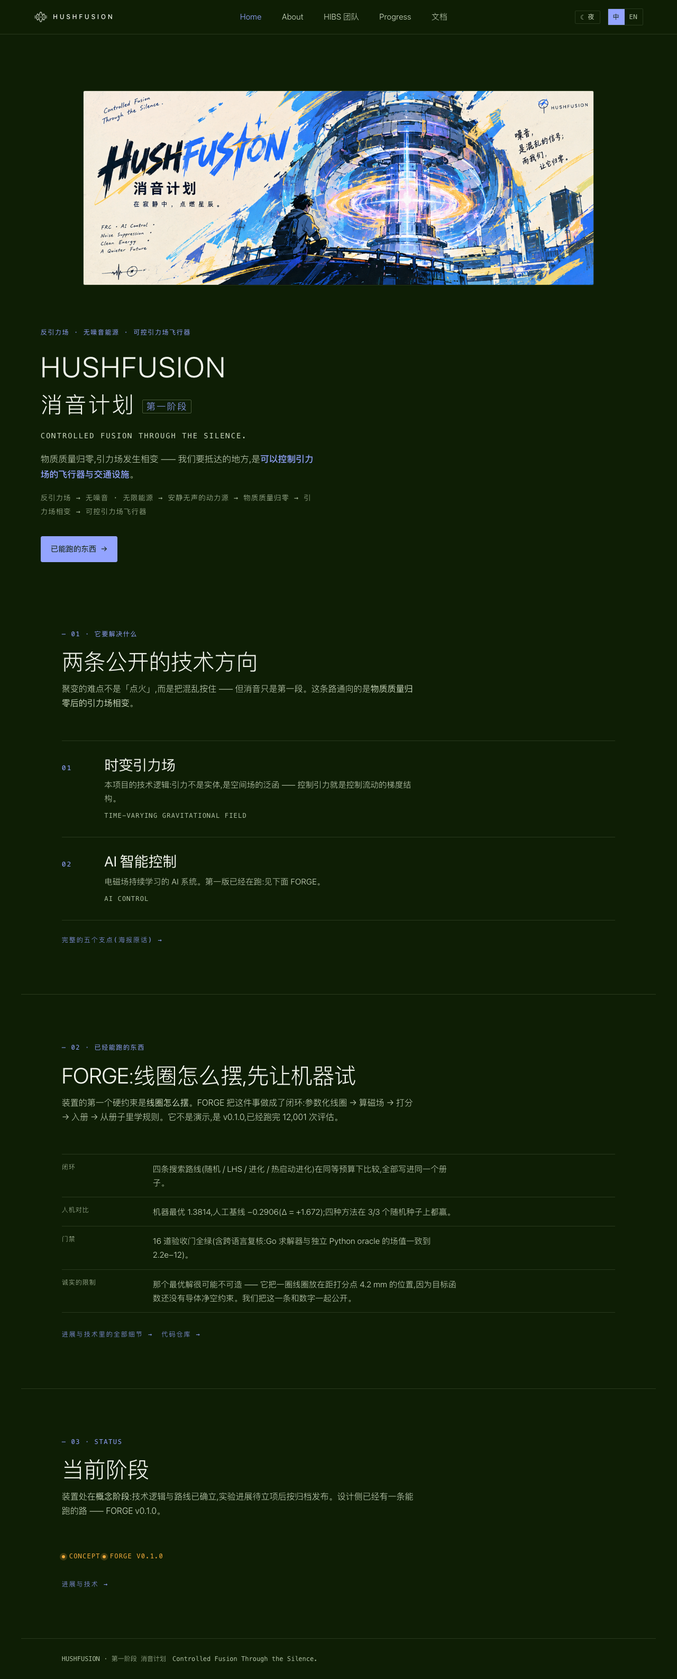
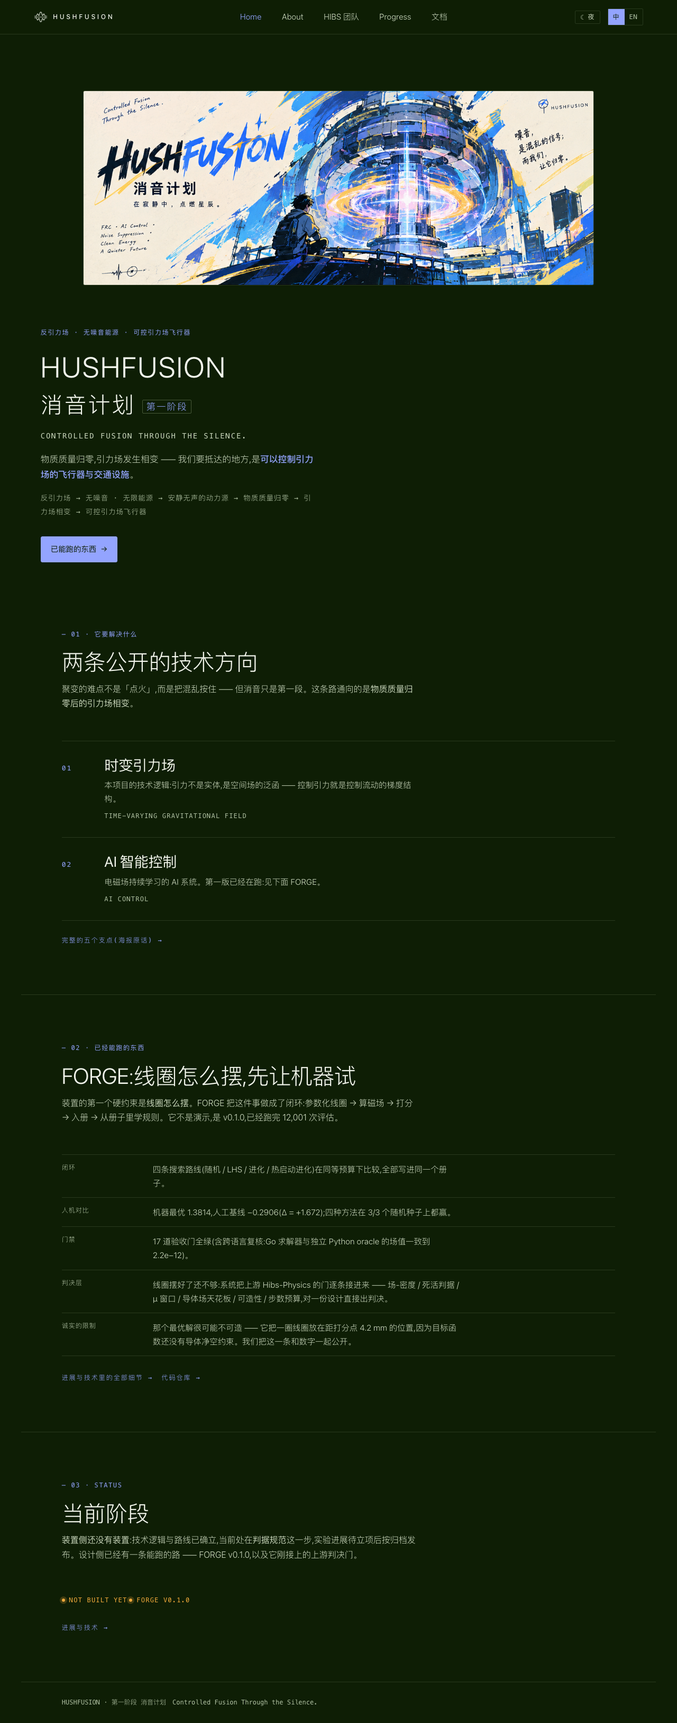
design(site): 进展页接入上游判决层 + 阶段口径改准(概念→判据规范)+ 修部署假红
判决层(需方:Forge 要根据 ProjectionPhysics 内部的设计来实现,实现完再改进展页的概念)
- 进展页 #forge 增「内部设计判决层」:上游闭式解(PF3/FC1/FC4/FC11b/TD19–TD21)实现成
  六道可回归的门;同一份参考设计:MATBG (N=2) 面外 0.12 T ⟹ 无解(χ_μ = 2.1e−4),
  面内 1.6 T ⟹ 窗口开(1.479)但线圈峰场 3.416 T 超材料天花板 ⟹ 不成立
- 门数 16 → 17(新增 G17 内部设计锚点门),首页 / 进展页 / 关于页三处同步
- 阶段口径:「概念」→ 事实陈述(装置侧还没有装置,当前处在判据规范这一步;设计侧已有可运行系统)
- 公开纪律:上游 wiki 58 页全 audience:self ⟹ 判决漏斗的排期/人月/编成/门表不进公开站,
  只发这一步的名字;站上已发布的同族(反引力约束 + μ 动力学)闭式解可以发

修假红(站点自己的工具)
- deploy.sh 的线上验收在 set -o pipefail + set -e 下,发布落地抖动会让整个部署退出 1
  (内容其实已核对)。改为重试到判据(最多 3 次),三次都不过才报真红

验收:verify-site.mjs 226/226(本地 + 部署后线上);wiki 7 道门全绿;
线上读回逐条(判决层 / 17 道门 / 165 步 / χ_μ 在,旧口径归零);未改 style.css/app.js ⇒ ?v= 仍 19

diff --git a/progress.html b/progress.html
@@ -54,12 +54,12 @@
 
     <div class="section-head reveal" style="margin-top:clamp(36px,5vw,64px);margin-bottom:14px">
       <h2 class="section-title" style="font-size:clamp(1.25rem,2.2vw,1.7rem)"
-          data-zh="当前阶段:概念 —— 但设计侧已经有一条路在跑" data-en="Current stage: concept — but one path on the design side already runs">当前阶段:概念 —— 但设计侧已经有一条路在跑</h2>
+          data-zh="当前阶段:装置侧还没有装置 —— 设计侧已经有一条路在跑" data-en="Current stage: no device yet — a path on the design side already runs">当前阶段:装置侧还没有装置 —— 设计侧已经有一条路在跑</h2>
       <p class="section-lede" data-html="1"
-         data-zh="&lt;strong&gt;装置&lt;/strong&gt;仍在概念阶段:技术逻辑与路线已确立(反引力场 / 无噪音能源),实验进展、指标数值与归档记录都还没有,待立项后按条目发布,&lt;strong&gt;不预先填充&lt;/strong&gt;。&lt;strong&gt;设计侧&lt;/strong&gt;不同 —— 已经有一台在跑的机器(FORGE),它的每一个数都在下面,而且都能被重新算出来。"
-         data-en="The &lt;strong&gt;device&lt;/strong&gt; is still at the concept stage: the technical logic and route are settled (anti-gravity field / energy without noise); experimental progress, metric values and archives do not exist yet and will be published entry by entry once the project starts — &lt;strong&gt;not pre-filled&lt;/strong&gt;. The &lt;strong&gt;design side&lt;/strong&gt; is different: there is already a machine that runs (FORGE), and every number of it is below — each one recomputable.">装置仍在概念阶段:技术逻辑与路线已确立(反引力场 / 无噪音能源),实验进展、指标数值与归档记录都还没有,待立项后按条目发布,<strong>不预先填充</strong>。设计侧不同 —— 已经有一台在跑的机器(FORGE),它的每一个数都在下面,而且都能被重新算出来。</p>
+         data-zh="&lt;strong&gt;装置&lt;/strong&gt;侧还没有装置:技术逻辑与路线已确立(反引力场 / 无噪音能源),当前处在&lt;strong&gt;判据规范&lt;/strong&gt;这一步(先把判据、诊断方案与零假设基准写死,再谈采购与建造),实验进展、指标数值与归档记录都还没有,待立项后按条目发布,&lt;strong&gt;不预先填充&lt;/strong&gt;。&lt;strong&gt;设计侧&lt;/strong&gt;不同 —— 已经有一台在跑的机器(FORGE),它的每一个数都在下面,而且都能被重新算出来。"
+         data-en="On the &lt;strong&gt;device&lt;/strong&gt; side there is no device yet: the technical logic and route are settled (anti-gravity field / energy without noise), and the project sits at the &lt;strong&gt;criteria-specification&lt;/strong&gt; step (fix the criteria, the diagnostic plan and the null-hypothesis baseline before talking procurement or construction); experimental progress, metric values and archives do not exist yet and will be published entry by entry once the project starts — &lt;strong&gt;not pre-filled&lt;/strong&gt;. The &lt;strong&gt;design side&lt;/strong&gt; is different: there is already a machine that runs (FORGE), and every number of it is below — each one recomputable.">装置侧还没有装置:技术逻辑与路线已确立(反引力场 / 无噪音能源),当前处在<strong>判据规范</strong>这一步(先把判据、诊断方案与零假设基准写死,再谈采购与建造),实验进展、指标数值与归档记录都还没有,待立项后按条目发布,<strong>不预先填充</strong>。设计侧不同 —— 已经有一台在跑的机器(FORGE),它的每一个数都在下面,而且都能被重新算出来。</p>
     </div>
-    <p><span class="status">Concept · device</span> <span class="status">Running · FORGE v0.1.0</span></p>
+    <p><span class="status">Not built yet · device</span> <span class="status">Running · FORGE v0.1.0</span></p>
   </section>
 
   <!-- ◆ 技术(原 technology.html 已并入本节) -->
@@ -118,15 +118,16 @@
       <div><dt>闭环</dt><dd data-zh="参数化线圈 → 精确磁场求解 → 目标函数打分 → 登记入册(带设计谱系)→ 从册子里挖规则。四条搜索路线(随机 / LHS / 进化 / 热启动进化)在同等预算下比较。" data-en="Parameterised coils → exact field solve → scoring → entry into a registry with design lineage → rules mined from the registry. Four search routes (random / LHS / evolution / warm-start evolution) compared at equal budget.">参数化线圈 → 精确磁场求解 → 目标函数打分 → 登记入册(带设计谱系)→ 从册子里挖规则。四条搜索路线(随机 / LHS / 进化 / 热启动进化)在同等预算下比较。</dd></div>
       <div><dt>人机对比</dt><dd data-zh="人工基线 −0.2906(它的中央室电流是解出来的,不是猜的);机器最优 1.3814(Δ = +1.672)。四种方法在 3/3 个随机种子上全部击败人工基线。" data-en="Human baseline −0.2906 (its central-cell current is solved for, not guessed); machine best 1.3814 (Δ = +1.672). All four methods beat the human baseline on 3/3 seeds.">人工基线 −0.2906(它的中央室电流是解出来的,不是猜的);机器最优 1.3814(Δ = +1.672)。四种方法在 3/3 个随机种子上全部击败人工基线。</dd></div>
       <div><dt>已归档的记录</dt><dd data-zh="一次基准跑 12,001 次评估,逐条入库(原始项、约束残差、设计谱系都留着),连同报告与图一起提交进仓库。" data-en="One benchmark run: 12,001 evaluations, every one recorded (raw terms, constraint residuals, design lineage) and committed to the repository together with the report and figures.">一次基准跑 12,001 次评估,逐条入库(原始项、约束残差、设计谱系都留着),连同报告与图一起提交进仓库。</dd></div>
-      <div><dt>门禁</dt><dd data-zh="16 道验收门,任何一道红就是红。其中两道是这台机器存在的理由:(1)跨语言复核 —— Go 求解器的场值与一个独立写成的 Python oracle 一致到 2.2e−12;(2)逐位复现 —— 按存档参数重跑一遍,12,001 条记录必须逐位相同。" data-en="16 acceptance gates; one red is red. Two of them are why this machine exists: (1) a cross-language check — the Go solver's field values agree with an independently written Python oracle to 2.2e−12; (2) bit-exact reproduction — re-run with the archived parameters and all 12,001 records must match bit for bit.">16 道验收门,任何一道红就是红。其中两道是这台机器存在的理由:(1)跨语言复核 —— Go 求解器的场值与一个独立写成的 Python oracle 一致到 2.2e−12;(2)逐位复现 —— 按存档参数重跑一遍,12,001 条记录必须逐位相同。</dd></div>
+      <div><dt>门禁</dt><dd data-zh="17 道验收门,任何一道红就是红。其中三道是这台机器存在的理由:(1)跨语言复核 —— Go 求解器的场值与一个独立写成的 Python oracle 一致到 2.2e−12;(2)逐位复现 —— 按存档参数重跑一遍,12,001 条记录必须逐位相同;(3)内部设计锚点 —— 把上游已公开的闭式解逐条复现,差一个数就红(见下一栏)。" data-en="17 acceptance gates; one red is red. Three of them are why this machine exists: (1) a cross-language check — the Go solver's field values agree with an independently written Python oracle to 2.2e−12; (2) bit-exact reproduction — re-run with the archived parameters and all 12,001 records must match bit for bit; (3) internal-design anchors — every upstream closed form is reproduced one by one, and one digit off turns the gate red (next row).">17 道验收门,任何一道红就是红。其中三道是这台机器存在的理由:(1)跨语言复核 —— Go 求解器的场值与一个独立写成的 Python oracle 一致到 2.2e−12;(2)逐位复现 —— 按存档参数重跑一遍,12,001 条记录必须逐位相同。</dd></div>
+      <div><dt>内部设计判决层</dt><dd data-html="1" data-zh="把上游 Hibs-Physics 的闭式解逐条实现成&lt;strong&gt;六道可回归的门&lt;/strong&gt;:约束场门 / 死活判据 / μ 窗口门 / 导体场天花板 / 可造性 / 步数预算。同一份参考设计(a = 0.2 m):用 MATBG (N=2) 面外场源(B_c2 = 0.12 T)⟹ &lt;strong&gt;无解&lt;/strong&gt;(μ 窗口关闭,χ_μ = 2.1e−4);用面内场源(1.6 T)⟹ 窗口开(χ_μ = 1.479),但线圈自身峰场 3.416 T 超过材料天花板 ⟹ 不成立。这一步把「场均不均匀」换成了装置真正要过的门。" data-en="The upstream Hibs-Physics closed forms, implemented one by one as &lt;strong&gt;six regression-checked gates&lt;/strong&gt;: confinement field / death threshold / mu-window / conductor ceiling / buildability / step budget. Same reference design (a = 0.2 m): with the MATBG (N=2) out-of-plane source (B_c2 = 0.12 T) it is &lt;strong&gt;unsolvable&lt;/strong&gt; (mu-window closed, chi_mu = 2.1e-4); with the in-plane source (1.6 T) the window opens (chi_mu = 1.479), but the coil own peak field of 3.416 T exceeds the material ceiling, so it does not hold. This swaps field non-uniformity for the gates the device actually has to pass.">把上游 Hibs-Physics 的闭式解逐条实现成<strong>六道可回归的门</strong>:约束场门 / 死活判据 / μ 窗口门 / 导体场天花板 / 可造性 / 步数预算。同一份参考设计(a = 0.2 m):用 MATBG (N=2) 面外场源(B_c2 = 0.12 T)⟹ <strong>无解</strong>(μ 窗口关闭,χ_μ = 2.1e−4);用面内场源(1.6 T)⟹ 窗口开(χ_μ = 1.479),但线圈自身峰场 3.416 T 超过材料天花板 ⟹ 不成立。这一步把「场均不均匀」换成了装置真正要过的门。</dd></div>
       <div><dt>怎么重算</dt><dd class="mono" style="letter-spacing:0">bash scripts/verify.sh phase0</dd></div>
     </dl>
 
     <div class="reveal" style="margin-top:clamp(28px,4vw,44px);max-width:46em">
       <p class="kicker kicker--muted" data-zh="说到哪,没说到哪" data-en="What is claimed, what is not">说到哪,没说到哪</p>
       <p style="color:var(--ink-2);font-size:.98rem" data-html="1"
-         data-zh="&lt;strong&gt;说得上话的&lt;/strong&gt;:这个闭环在真空场层面是可运行、可记录、可复核的。&lt;strong&gt;说不上话的&lt;/strong&gt;:(1)那个最优解很可能&lt;strong&gt;不可造&lt;/strong&gt; —— 它把一圈线圈放在距打分点 4.2 mm 处,因为目标函数还没有导体净空约束,这是一个合法的退化解;(2)热启动的增益在 1000 次预算下落进噪声,不许当结论;(3)人工基线在这个搜索盒里偏弱,随机搜索平均 8 次评估就追平它;(4)这一版是真空场设计,不含等离子体、线圈电流分配与有限厚度绕组 —— 它回答的是「这一组线圈的场结构好不好」,不是「这台机器会不会聚变」。"
-         data-en="&lt;strong&gt;What it can speak to&lt;/strong&gt;: the loop is runnable, recordable and checkable at the vacuum-field level. &lt;strong&gt;What it cannot&lt;/strong&gt;: (1) that winning design is most likely &lt;strong&gt;unbuildable&lt;/strong&gt; — it parks a coil 4.2 mm from the scoring point, because the objective has no conductor-clearance constraint yet, making it a legal degenerate solution; (2) the warm-start gain falls inside the noise at a 1000-evaluation budget and must not be quoted; (3) the human baseline is weak inside this particular box — random search catches it after about 8 evaluations; (4) this version is a vacuum-field design: no plasma, no conductor current sharing, no finite-thickness winding — it answers whether a coil set has good field structure, not whether a machine will fuse.">说得上话的:这个闭环在真空场层面是可运行、可记录、可复核的。说不上话的:(1)那个最优解很可能不可造 —— 它把一圈线圈放在距打分点 4.2 mm 处,因为目标函数还没有导体净空约束,这是一个合法的退化解;(2)热启动的增益在 1000 次预算下落进噪声,不许当结论;(3)人工基线在这个搜索盒里偏弱,随机搜索平均 8 次评估就追平它;(4)这一版是真空场设计,不含等离子体、线圈电流分配与有限厚度绕组 —— 它回答的是「这一组线圈的场结构好不好」,不是「这台机器会不会聚变」。</p>
+         data-zh="&lt;strong&gt;说得上话的&lt;/strong&gt;:这个闭环在真空场层面是可运行、可记录、可复核的。&lt;strong&gt;说不上话的&lt;/strong&gt;:(1)那个最优解很可能&lt;strong&gt;不可造&lt;/strong&gt; —— 它把一圈线圈放在距打分点 4.2 mm 处,因为目标函数还没有导体净空约束,这是一个合法的退化解;(2)热启动的增益在 1000 次预算下落进噪声,不许当结论;(3)人工基线在这个搜索盒里偏弱,随机搜索平均 8 次评估就追平它;(4)这一版是真空场设计,不含等离子体、线圈电流分配与有限厚度绕组 —— 它回答的是「这一组线圈的场结构好不好」,不是「这台机器会不会聚变」;(5)判决层也不回答「μ 从哪来」—— 它只算「给定 μ 能维持多少步、需要多大的场」,把 μ 能主动产生当成已知是本项目最容易犯的错。"
+         data-en="&lt;strong&gt;What it can speak to&lt;/strong&gt;: the loop is runnable, recordable and checkable at the vacuum-field level. &lt;strong&gt;What it cannot&lt;/strong&gt;: (1) that winning design is most likely &lt;strong&gt;unbuildable&lt;/strong&gt; — it parks a coil 4.2 mm from the scoring point, because the objective has no conductor-clearance constraint yet, making it a legal degenerate solution; (2) the warm-start gain falls inside the noise at a 1000-evaluation budget and must not be quoted; (3) the human baseline is weak inside this particular box — random search catches it after about 8 evaluations; (4) this version is a vacuum-field design: no plasma, no conductor current sharing, no finite-thickness winding — it answers whether a coil set has good field structure, not whether a machine will fuse; (5) the verdict layer does not answer where mu comes from either — it only asks how many steps a given mu can sustain and how much field that needs, and treating mu as already producible is the easiest mistake in this project.">说得上话的:这个闭环在真空场层面是可运行、可记录、可复核的。说不上话的:(1)那个最优解很可能不可造 —— 它把一圈线圈放在距打分点 4.2 mm 处,因为目标函数还没有导体净空约束,这是一个合法的退化解;(2)热启动的增益在 1000 次预算下落进噪声,不许当结论;(3)人工基线在这个搜索盒里偏弱,随机搜索平均 8 次评估就追平它;(4)这一版是真空场设计,不含等离子体、线圈电流分配与有限厚度绕组 —— 它回答的是「这一组线圈的场结构好不好」,不是「这台机器会不会聚变」;(5)判决层也不回答「μ 从哪来」—— 它只算「给定 μ 能维持多少步、需要多大的场」,把 μ 能主动产生当成已知是本项目最容易犯的错。</p>
     </div>
 
     <p style="margin-top:26px">
@@ -142,8 +143,8 @@
       <h2 class="section-title" style="font-size:clamp(1.25rem,2.2vw,1.7rem)"
           data-zh="关键指标" data-en="Key metrics">关键指标</h2>
       <p class="section-lede" data-html="1"
-         data-zh="&lt;strong&gt;装置侧&lt;/strong&gt;(等离子体、约束、装置工程)目前没有任何可发布的数值 —— 立项后按条目给。&lt;strong&gt;设计侧&lt;/strong&gt;的数值就是上一节 FORGE 的那四个数,来源与算法都在公开仓库里。"
-         data-en="&lt;strong&gt;Device side&lt;/strong&gt; (plasma, confinement, device engineering): no publishable values yet — they will be posted entry by entry once the project starts. &lt;strong&gt;Design side&lt;/strong&gt;: the numbers are the four in the FORGE section above, with sources and algorithms in the public repository.">装置侧(等离子体、约束、装置工程)目前没有任何可发布的数值 —— 立项后按条目给。设计侧的数值就是上一节 FORGE 的那四个数,来源与算法都在公开仓库里。</p>
+         data-zh="&lt;strong&gt;装置侧&lt;/strong&gt;(等离子体、约束、装置工程)目前没有任何可发布的数值 —— 立项后按条目给。&lt;strong&gt;设计侧&lt;/strong&gt;的数值有两组:一次基准跑的四个数(12,001 次评估 / 机器最优 1.3814 / 人工基线 −0.2906 / 17 道门),以及判决层对同一份参考设计的六道门结论(χ_μ = 2.1e−4 与 1.479、B_death = 0.9966 T、窗口在第 165 步关闭)。来源与算法都在公开仓库里。"
+         data-en="&lt;strong&gt;Device side&lt;/strong&gt; (plasma, confinement, device engineering): no publishable values yet — they will be posted entry by entry once the project starts. &lt;strong&gt;Design side&lt;/strong&gt;: the numbers come in two groups: the four from the benchmark run (12,001 evaluations / machine best 1.3814 / human baseline −0.2906 / 17 gates), and the six design gates the verdict layer returns for the same reference design (chi_mu = 2.1e-4 and 1.479, B_death = 0.9966 T, window closing at step 165). Sources and algorithms are in the public repository.">装置侧(等离子体、约束、装置工程)目前没有任何可发布的数值 —— 立项后按条目给。设计侧的数值有两组:一次基准跑的四个数(12,001 次评估 / 机器最优 1.3814 / 人工基线 −0.2906 / 17 道门),以及判决层对同一份参考设计的六道门结论(χ_μ = 2.1e−4 与 1.479、B_death = 0.9966 T、窗口在第 165 步关闭)。来源与算法都在公开仓库里。</p>
     </div>
   </section>
 

diff --git a/index.html b/index.html
@@ -100,7 +100,8 @@
     <dl class="spec-list reveal">
       <div><dt>闭环</dt><dd data-zh="四条搜索路线(随机 / LHS / 进化 / 热启动进化)在同等预算下比较,全部写进同一个册子。" data-en="Four search routes (random / LHS / evolution / warm-start evolution) compared at equal budget, all written into one registry.">四条搜索路线(随机 / LHS / 进化 / 热启动进化)在同等预算下比较,全部写进同一个册子。</dd></div>
       <div><dt>人机对比</dt><dd data-zh="机器最优 1.3814,人工基线 −0.2906(Δ = +1.672);四种方法在 3/3 个随机种子上都赢。" data-en="Machine best 1.3814 against a human-designed baseline of −0.2906 (Δ = +1.672); all four methods win on 3/3 seeds.">机器最优 1.3814,人工基线 −0.2906(Δ = +1.672);四种方法在 3/3 个随机种子上都赢。</dd></div>
-      <div><dt>门禁</dt><dd data-zh="16 道验收门全绿(含跨语言复核:Go 求解器与独立 Python oracle 的场值一致到 2.2e−12)。" data-en="16 acceptance gates green, including a cross-language check: the Go solver and an independent Python oracle agree on field values to 2.2e−12.">16 道验收门全绿(含跨语言复核:Go 求解器与独立 Python oracle 的场值一致到 2.2e−12)。</dd></div>
+      <div><dt>门禁</dt><dd data-zh="17 道验收门全绿(含跨语言复核:Go 求解器与独立 Python oracle 的场值一致到 2.2e−12)。" data-en="17 acceptance gates green, including a cross-language check: the Go solver and an independent Python oracle agree on field values to 2.2e−12.">17 道验收门全绿(含跨语言复核:Go 求解器与独立 Python oracle 的场值一致到 2.2e−12)。</dd></div>
+      <div><dt>判决层</dt><dd data-zh="线圈摆好了还不够:系统把上游 Hibs-Physics 的门逐条接进来 —— 场-密度 / 死活判据 / μ 窗口 / 导体场天花板 / 可造性 / 步数预算,对一份设计直接出判决。" data-en="Placing the coils is not enough: the system wires in the upstream Hibs-Physics gates — field-density / death threshold / mu-window / conductor ceiling / buildability / step budget — and returns a verdict on a design.">线圈摆好了还不够:系统把上游 Hibs-Physics 的门逐条接进来 —— 场-密度 / 死活判据 / μ 窗口 / 导体场天花板 / 可造性 / 步数预算,对一份设计直接出判决。</dd></div>
       <div><dt>诚实的限制</dt><dd data-zh="那个最优解很可能不可造 —— 它把一圈线圈放在距打分点 4.2 mm 的位置,因为目标函数还没有导体净空约束。我们把这一条和数字一起公开。" data-en="That winning design is most likely unbuildable — it parks a coil 4.2 mm from the scoring point, because the objective still has no conductor-clearance constraint. We publish that alongside the number.">那个最优解很可能不可造 —— 它把一圈线圈放在距打分点 4.2 mm 的位置,因为目标函数还没有导体净空约束。我们把这一条和数字一起公开。</dd></div>
     </dl>
 
@@ -116,9 +117,9 @@
     <div class="section-head reveal">
       <p class="kicker">— 03 · Status</p>
       <h2 class="section-title" data-zh="当前阶段" data-en="Current stage">当前阶段</h2>
-      <p class="section-lede" data-html="1" data-zh="装置处在&lt;strong&gt;概念阶段&lt;/strong&gt;:技术逻辑与路线已确立,实验进展待立项后按归档发布。设计侧已经有一条能跑的路 —— FORGE v0.1.0。" data-en="The device is at the &lt;strong&gt;concept stage&lt;/strong&gt;: the technical logic and the route are settled, and experimental progress is published once archived. On the design side one path already runs — FORGE v0.1.0.">装置处在<strong>概念阶段</strong>:技术逻辑与路线已确立,实验进展待立项后按归档发布。设计侧已经有一条能跑的路 —— FORGE v0.1.0。</p>
+      <p class="section-lede" data-html="1" data-zh="&lt;strong&gt;装置侧还没有装置&lt;/strong&gt;:技术逻辑与路线已确立,当前处在&lt;strong&gt;判据规范&lt;/strong&gt;这一步,实验进展待立项后按归档发布。设计侧已经有一条能跑的路 —— FORGE v0.1.0,以及它刚接上的上游判决门。" data-en="On the &lt;strong&gt;device side there is no device yet&lt;/strong&gt;: the technical logic and the route are settled, the project sits at the &lt;strong&gt;criteria-specification&lt;/strong&gt; step, and experimental progress is published once archived. On the design side one path already runs — FORGE v0.1.0, plus the upstream verdict gates it has just been wired into.">装置侧还没有装置:技术逻辑与路线已确立,当前处在<strong>判据规范</strong>这一步,实验进展待立项后按归档发布。设计侧已经有一条能跑的路 —— FORGE v0.1.0,以及它刚接上的上游判决门。</p>
     </div>
-    <p><span class="status">Concept</span> <span class="status">FORGE v0.1.0</span></p>
+    <p><span class="status">Not built yet</span> <span class="status">FORGE v0.1.0</span></p>
     <p style="margin-top:26px"><a class="see-all" href="progress.html"
        data-zh="进展与技术 →" data-en="Progress &amp; technology →">进展与技术 →</a></p>
   </section>

diff --git a/about.html b/about.html
@@ -127,7 +127,7 @@
       </div></li>
       <li><span class="cap-no">02</span><div class="cap-body">
         <h3>2026-09-26</h3>
-        <p data-zh="设计侧第一台在跑的机器 —— FORGE v0.1.0 上线:12,001 次评估入册,16 道验收门全绿,代码公开。" data-en="The first machine that runs on the design side — FORGE v0.1.0 ships: 12,001 evaluations recorded, 16 acceptance gates green, code published.">设计侧第一台在跑的机器 —— FORGE v0.1.0 上线:12,001 次评估入册,16 道验收门全绿,代码公开。</p>
+        <p data-zh="设计侧第一台在跑的机器 —— FORGE v0.1.0 上线:12,001 次评估入册,17 道验收门全绿,代码公开。" data-en="The first machine that runs on the design side — FORGE v0.1.0 ships: 12,001 evaluations recorded, 17 acceptance gates green, code published.">设计侧第一台在跑的机器 —— FORGE v0.1.0 上线:12,001 次评估入册,17 道验收门全绿,代码公开。</p>
         <span class="cap-tag" data-zh="已发生" data-en="Done">已发生</span>
       </div></li>
       <li><span class="cap-no">03</span><div class="cap-body">

diff --git a/docs/wiki/log.md b/docs/wiki/log.md
@@ -233,4 +233,8 @@
 | 2026-09-26 | test | `node scripts/verify-site.mjs` 226/226(本地) → `scripts/deploy.sh` 部署后对线上重跑 226/226 | 站点自身的门;线上截图落临时目录,不覆盖仓库证据 |
 | 2026-09-26 | chore | 线上读回踩坑记录:Cloudflare Pages 把 `*.html` 308 重定向到无扩展名路径,`curl` 不带 `-L` 会拿到 0 字节 —— 看起来像"没部署",实际是没跟随重定向 | 下次核验线上内容直接查 `/progress`、`/docs` |
 | 2026-09-26 | fix | 修 CI 连续三天全红:`untracked_raw_check` 报两个文件未登记 ——(1) `assets/art/mu-dynamics.png`(2026-09-24 新增第 06 册时漏登记);(2) `docs/screenshots/docs.png`(理论页由 `theory.html` 改名后截图名随之变化,而 manifest 里那一行还是 `theory.png`)。按本仓惯例补登 `manifests/raw_sources.csv` 两行 + `docs/ASSETS.md §九` 一行(含 sha256 / 尺寸 / 字节 / 源路径) | 近 4 次 push(2026-09-23 起)CI 全红;同一失败模式 2026-09-22 已出现过一次 —— 页面改名/加册时最容易漏登记 |
+| 2026-09-26 | feat | 判决层接入:进展页 `#forge` 增「内部设计判决层」一栏 —— 上游闭式解(PF3/FC1/FC4/FC11b/TD19–TD21)实现成六道门,同一份参考设计的结论:MATBG (N=2) 面外 0.12 T ⟹ **无解**(χ_μ = 2.1e−4);面内 1.6 T ⟹ 窗口开(1.479)但线圈峰场 3.416 T 超天花板 ⟹ 不成立 | 需方「Forge 要根据 ProjectionPhysics 内部的设计来实现,然后把进展页的概念改动」;上游 = `logos-42/Hibs-Physics` |
+| 2026-09-26 | design | 阶段口径改准:「概念」→ 事实陈述(装置侧还没有装置,当前处在**判据规范**这一步;设计侧已有可运行系统)。门数 16 → 17(新增 G17 内部设计锚点门),首页 / 进展页 / 关于页三处同步 | 「概念」是含糊词;上游那一步有名字。公开纪律:上游 wiki 58 页全 `audience: self` ⟹ 判决漏斗的排期 / 人·月 / 编成 / 门表**不进公开站**,只发这一步的名字 |
+| 2026-09-26 | fix | 修站点自己的一个**假红**:`deploy.sh` 的线上验收在 `set -o pipefail` + `set -e` 下,发布刚落地时的抖动会让**整个部署退出 1**(内容其实已核对)。改为重试到判据(最多 3 次),三次都不过才报「这是真红,不是抖动」 | 实测:部署那次退出 1;同一份线上验收独立重跑 **226/226 通过** —— 假红比没有门更伤(会让「部署成功」这个判断失去意义) |
+| 2026-09-26 | test | `node scripts/verify-site.mjs` 226/226(本地) → 部署后线上验收 226/226;线上读回逐条(内部设计判决层 / 17 道验收门 / 165 步 / χ_μ = 2.1e−4 均在;旧口径「概念阶段」「16 道验收门」全部归零) | 站点自身的门 |
 

diff --git a/docs/wiki/current-status.md b/docs/wiki/current-status.md
@@ -11,6 +11,17 @@ status: current
 
 ## 最近更新
 
+- **接入上游判决层 + 阶段口径改准(2026-09-26)**:需方「Forge 要根据 ProjectionPhysics 项目内部的设计来实现,实现完再把进展页的概念改动」。
+  上游 = `logos-42/Hibs-Physics`(本地工作副本 commit `d28cd417b3f4`),其闭式解 PF3 / FC1 / FC4 / FC11b / TD19–TD21
+  已被 Forge 实现成六道可回归的门(`internal/design`,见 `hushfusion-forge` 仓库)并挂上 G17 锚点门。
+  站点侧据此更新三处:
+  ① 进展页 `#forge` 增「内部设计判决层」一栏 —— 同一份参考设计的六道门结论:MATBG (N=2) 面外场源(0.12 T)⟹ **无解**(χ_μ = 2.1e−4,μ 窗口关闭);面内场源(1.6 T)⟹ 窗口开(χ_μ = 1.479)但线圈自身峰场 3.416 T 超材料天花板 ⟹ 不成立。这一步把「场均不均匀」换成了装置真正要过的门。
+  ② 门数 **16 → 17 道**(新增 G17 内部设计锚点门;首页/进展页/关于页三处同步)。
+  ③ **阶段口径改准**:「概念」换成事实陈述 —— 装置侧**还没有装置**,当前处在**判据规范**这一步(先把判据、诊断方案与零假设基准写死,再谈采购与建造);设计侧已有可运行系统。
+  边界纪律:上游那份 wiki **58 页全部 `audience: self`**,所以判决漏斗的排期 / 人·月 / 团队编成 / 门表 **不进公开站**,只发这一步的名字;站上本来就已发布反引力约束与 μ 动力学那一族(连图都导入过),判决层用的是同一族的闭式解,所以可以发。
+  另修站点自己的一个假红:`deploy.sh` 的线上验收在 `set -o pipefail` + `set -e` 下,发布刚落地时的抖动会让**整个部署退出 1**(而内容其实已核对)。改为重试到判据(最多 3 次),三次都不过才报真红。
+  验收:`verify-site.mjs` 226/226(本地);部署后线上验收 226/226;线上读回逐条(判决层 / 17 道门 / 165 步 / χ_μ 均在,旧口径「概念阶段」「16 道门」全部归零)。
+
 - **前门做减法 + 首次接入设计系统 FORGE(2026-09-26)**:按需方「内容太乱,用乔布斯技能重新删减」把首页与进展页重写。
   诊断:**同一句话在一屏内说了八遍** —— 海报标语 / kicker / H1 / 中文副标 / 英文标语 / 两条 lede / 箭头路线 / 滚动展示栏 全在说同一件事,而滚动展示栏的五个词又是下方清单的逐字复制。
   删掉的:滚动展示栏(与下方清单重复)、第二条 lede(第三次复述)、第二个 CTA(与第一个同页)、空 `<figure>`/`<figcaption>`、两个 `.placeholder` 空盒子(关于页「合作与资助 · 待项目方提供」、HIBS 页「岗位 —— 待定」)。
